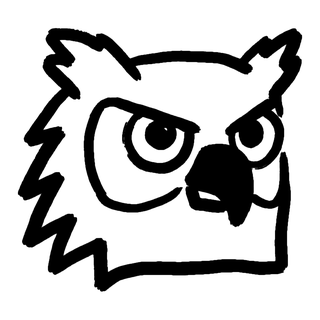
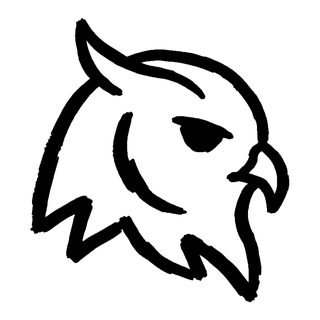
[DA] Shine des nouveautés : éclat tourné après le nom du joueur et éventail au-dessus de l'icône pour toute sortie arrivée depuis la dernière visite (synced_at) ; animaux : canard dessiné, nouvelles chouette et lynx

diff --git a/public/js/ui.js b/public/js/ui.js
@@ -17,7 +17,7 @@ import {
 
 import { getJokerStock, getJokerStatusForRound, getActiveJokersForRound, getPendingJokersForNextRound } from './jokers.js';
 import { filterByParticipant } from './standings-engine.js';
-import { picto, pictoOf } from './pictos.js?v=20261117b';
+import { picto, pictoOf } from './pictos.js?v=20261119a';
 import { motifClass } from './motifs.js';
 
 // ============================================
@@ -322,6 +322,44 @@ export function renderActiveJokersSection(container, data) {
 // RENDU DU CLASSEMENT
 // ============================================
 
+// ============================================
+// NOUVEAUTÉS DEPUIS LA DERNIÈRE VISITE (Shine)
+// ============================================
+// On retient le moment où le joueur a quitté le site sur cet appareil. Toute
+// sortie arrivée depuis (synced_at) reçoit le Shine, son auteur aussi. La date
+// de référence est figée pour l'onglet : recharger la page ne fait pas
+// disparaître les marques, la visite suivante si. Première visite : aucune marque.
+const NEW_SINCE = (() => {
+  try {
+    let since = sessionStorage.getItem('versant_new_since');
+    if (since === null) {
+      since = localStorage.getItem('versant_last_seen') || '';
+      sessionStorage.setItem('versant_new_since', since);
+    }
+    const mark = () => { try { localStorage.setItem('versant_last_seen', String(Date.now())); } catch {} };
+    mark();
+    addEventListener('pagehide', mark);
+    document.addEventListener('visibilitychange', () => { if (document.visibilityState === 'hidden') mark(); });
+    return since ? Number(since) : null;
+  } catch { return null; }
+})();
+
+function activityArrival(a) {
+  return Date.parse(a.synced_at) || (Date.parse(a.start_date) + (a.elapsed_time || 0) * 1000) || 0;
+}
+
+/** Vrai si la sortie est arrivée depuis la dernière visite. */
+export function isNewActivity(a) {
+  return NEW_SINCE !== null && activityArrival(a) > NEW_SINCE;
+}
+
+/** Shine après le nom d'un joueur qui a une sortie nouvelle sur le round ('' sinon). */
+export function newShine(athleteId, roundActivities) {
+  if (NEW_SINCE === null) return '';
+  const fresh = filterByParticipant(roundActivities || [], athleteId).some(isNewActivity);
+  return fresh ? '<span class="da-shine" role="img" aria-label="Nouvelle sortie" title="Nouvelle sortie depuis ta dernière visite"></span>' : '';
+}
+
 export function renderAthleteActivitiesPanel(athleteId, roundActivities, specialRule = null) {
   const isRainRule = specialRule === 'pluie_qui_mouille';
   const activities = filterByParticipant(roundActivities || [], athleteId)
@@ -353,7 +391,7 @@ export function renderAthleteActivitiesPanel(athleteId, roundActivities, special
 
     return `
     <div class="athlete-activity-row">
-      <span class="athlete-activity-sport" title="${a.sport_type || a.type || ''}">${getActivitySportIcon(a.sport_type || a.type)}</span>
+      <span class="athlete-activity-sport${isNewActivity(a) ? ' da-new-ico' : ''}" title="${a.sport_type || a.type || ''}${isNewActivity(a) ? ' · nouvelle' : ''}">${getActivitySportIcon(a.sport_type || a.type)}</span>
       <a class="athlete-activity-name" href="https://www.strava.com/activities/${a.id}" target="_blank" rel="noopener noreferrer">
         ${a.name || 'Sans nom'}${rainBadge}
       </a>
@@ -546,7 +584,7 @@ let html = specialBanner + specialRuleHtml + headerHtml;
               ${bonusIndicators}
             </div>
             <div class="athlete-details">
-              <span class="athlete-name athlete-name-clickable" onclick="toggleAthleteActivities('${entry.participant.id}')">${entry.participant.name} <span class="athlete-name-toggle-icon" id="athlete-activities-icon-${entry.participant.id}">▾</span></span>
+              <span class="athlete-name athlete-name-clickable" onclick="toggleAthleteActivities('${entry.participant.id}')">${entry.participant.name}${newShine(entry.participant.id, roundActivities)} <span class="athlete-name-toggle-icon" id="athlete-activities-icon-${entry.participant.id}">▾</span></span>
               ${isRescape ? '<span class="athlete-status rescape" title="Rescapé du round précédent">Rescapé</span>' : ''}
               ${entry.isInDangerZone ? '<span class="athlete-status danger">Zone danger</span>' : ''}
               ${entry.isProtected ? '<span class="athlete-status protected">🛡 Protégé</span>' : ''}
@@ -579,7 +617,7 @@ let html = specialBanner + specialRuleHtml + headerHtml;
               ${bonusIndicators}
             </div>
             <div class="athlete-details">
-              <span class="athlete-name athlete-name-clickable" onclick="toggleAthleteActivities('${entry.participant.id}')">${entry.participant.name} <span class="athlete-name-toggle-icon" id="athlete-activities-icon-${entry.participant.id}">▾</span></span>
+              <span class="athlete-name athlete-name-clickable" onclick="toggleAthleteActivities('${entry.participant.id}')">${entry.participant.name}${newShine(entry.participant.id, roundActivities)} <span class="athlete-name-toggle-icon" id="athlete-activities-icon-${entry.participant.id}">▾</span></span>
               ${isRescape ? '<span class="athlete-status rescape" title="Rescapé du round précédent - Juste au-dessus de la zone d\'élimination">Rescapé</span>' : ''}
               ${entry.isInDangerZone ? '<span class="athlete-status danger">Zone danger</span>' : ''}
               ${entry.isProtected ? '<span class="athlete-status protected">🛡 Protégé</span>' : ''}

diff --git a/public/css/da/components.css b/public/css/da/components.css
@@ -582,7 +582,7 @@ html.da-atelier.pictos-v1 :is(.picto--trap, .picto--medaille, .picto--hausse, .p
    autres pictos, leurs détails doivent rester lisibles à côté du nom */
 html.da-atelier .picto--animal-loup { --pi: url("../../assets/pictos/animaux/loup.png?v=20261112a"); }
 html.da-atelier .picto--animal-renard { --pi: url("../../assets/pictos/animaux/renard.png?v=20261112a"); }
-html.da-atelier .picto--animal-lynx { --pi: url("../../assets/pictos/animaux/lynx.png?v=20261112a"); }
+html.da-atelier .picto--animal-lynx { --pi: url("../../assets/pictos/animaux/lynx.png?v=20261119a"); }
 html.da-atelier .picto--animal-ours { --pi: url("../../assets/pictos/animaux/ours.png?v=20261112a"); }
 html.da-atelier .picto--animal-sanglier { --pi: url("../../assets/pictos/animaux/sanglier.png?v=20261112a"); }
 html.da-atelier .picto--animal-mammouth { --pi: url("../../assets/pictos/animaux/mammouth.png?v=20261112a"); }
@@ -591,7 +591,7 @@ html.da-atelier .picto--animal-loutre { --pi: url("../../assets/pictos/animaux/l
 html.da-atelier .picto--animal-raton { --pi: url("../../assets/pictos/animaux/raton.png?v=20261112a"); }
 html.da-atelier .picto--animal-ecureuil { --pi: url("../../assets/pictos/animaux/ecureuil.png?v=20261112a"); }
 html.da-atelier .picto--animal-lapin { --pi: url("../../assets/pictos/animaux/lapin.png?v=20261112a"); }
-html.da-atelier .picto--animal-chouette { --pi: url("../../assets/pictos/animaux/chouette.png?v=20261112a"); }
+html.da-atelier .picto--animal-chouette { --pi: url("../../assets/pictos/animaux/chouette.png?v=20261119a"); }
 html.da-atelier .picto--animal-bouquetin { --pi: url("../../assets/pictos/animaux/bouquetin.png?v=20261112a"); }
 html.da-atelier .picto--animal-chamois { --pi: url("../../assets/pictos/animaux/chamois.png?v=20261112a"); }
 html.da-atelier .picto--animal-aigle { --pi: url("../../assets/pictos/animaux/aigle.png?v=20261112a"); }
@@ -599,8 +599,18 @@ html.da-atelier .picto--animal-mouflon { --pi: url("../../assets/pictos/animaux/
 html.da-atelier .picto--animal-cerf { --pi: url("../../assets/pictos/animaux/cerf.png?v=20261112a"); }
 html.da-atelier .picto--animal-corbeau { --pi: url("../../assets/pictos/animaux/corbeau.png?v=20261112a"); }
 html.da-atelier .picto--animal-panda { --pi: url("../../assets/pictos/animaux/panda.png?v=20261112a"); }
+html.da-atelier .picto--animal-canard { --pi: url("../../assets/pictos/animaux/canard.png?v=20261119a"); }
 html.da-atelier .picto--animal-chenille { --pi: url("../../assets/pictos/animaux/chenille.png?v=20261112a"); }
 html.da-atelier [class*="picto--animal-"] { width: 1.75em; height: 1.75em; vertical-align: -0.5em; }
+
+/* Nouveautés depuis la dernière visite : le Shine-01 de MANIC, tourné de 90°
+   après le nom, en éventail au-dessus de l'icône de la sortie */
+.da-shine { display: none; }
+html.da-atelier .da-shine { display: inline-block; width: 0.6em; height: 1.25em; margin-left: 4px; margin-right: 2px; vertical-align: -0.2em; background: var(--accent-text);
+  -webkit-mask: url("../../assets/manic/shine-01-v.svg") center / 100% 100% no-repeat; mask: url("../../assets/manic/shine-01-v.svg") center / 100% 100% no-repeat; }
+html.da-atelier .da-new-ico { position: relative; overflow: visible; }
+html.da-atelier .da-new-ico::after { content: ""; position: absolute; left: -2px; right: -2px; top: -16px; height: 24px; background: var(--accent-text); pointer-events: none;
+  -webkit-mask: url("../../assets/manic/shine-01.svg") center / 100% 100% no-repeat; mask: url("../../assets/manic/shine-01.svg") center / 100% 100% no-repeat; }
 
 /* Médailles 1, 2, 3 : la rosette, un coup de marqueur or, gris ou brun dessus */
 html.da-atelier .da-medal { position: relative; display: inline-block; line-height: 1; vertical-align: middle; isolation: isolate; margin-right: 0.3em; --medal: var(--team-or); }

diff --git a/public/js/app.js b/public/js/app.js
@@ -37,8 +37,8 @@ import {
   renderJokersGuide, renderArsenal, showNotification,
   showContextMenu, hideContextMenu, showTargetSelectionModal,
   renderElevationGauge, renderElevationGaugeHistory,
-  renderAthleteActivitiesPanel, renderRoundNotes, deltaBadge
-} from './ui.js?v=20261118c';
+  renderAthleteActivitiesPanel, renderRoundNotes, deltaBadge, newShine
+} from './ui.js?v=20261119a';
 
 import { getCurrentDate, setSimulatedDate } from './demo.js';
 
@@ -86,7 +86,7 @@ import {
 } from './standings-engine.js';
 
 import { toggleSimulator } from './simulator.js';
-import { picto, medal as medalPicto, animalIcon } from './pictos.js?v=20261117b';
+import { picto, medal as medalPicto, animalIcon } from './pictos.js?v=20261119a';
 import { motifClass } from './motifs.js';
 import * as H from './da-hand.js?v=20261118a';
 import { roundSituationNote } from './da-notes.js?v=20261118e';
@@ -973,7 +973,7 @@ function renderTeamRanking(container, data) {
           <div class="team-member-row ${isLastTeam ? 'in-danger' : ''}">
             <div class="team-member-info">
               <div class="athlete-avatar-small ${motifClass(member.id)}" style="background:linear-gradient(135deg,${color},${color}88)"><span class="da-initials">${initials}</span></div>
-              <span class="team-member-name athlete-name-clickable" onclick="toggleAthleteActivities('${member.id}')">${name} <span class="athlete-name-toggle-icon" id="athlete-activities-icon-${member.id}">▾</span></span>
+              <span class="team-member-name athlete-name-clickable" onclick="toggleAthleteActivities('${member.id}')">${name}${newShine(member.id, roundActivities)} <span class="athlete-name-toggle-icon" id="athlete-activities-icon-${member.id}">▾</span></span>
             </div>
             <span class="team-member-elevation">${formatElevation(member.elevation || 0)}</span>
           </div>

diff --git a/public/js/pictos.js b/public/js/pictos.js
@@ -20,7 +20,7 @@ const DRAWN = new Set([
   // sports (dessins de la graphiste), et Roi de la Pédale
   ...['course', 'trail', 'rando', 'vtt', 'velo', 'marche', 'gravel', 'ski-rando', 'ski-fond', 'raquettes', 'escalade'].map(id => 'sport-' + id), 'succes-cyclist',
   // animaux des équipes, panda et chenille pour les anciennes saisons
-  ...['loup', 'renard', 'lynx', 'ours', 'sanglier', 'mammouth', 'marmotte', 'loutre', 'raton', 'ecureuil', 'lapin', 'chouette', 'bouquetin', 'chamois', 'aigle', 'mouflon', 'cerf', 'corbeau', 'panda', 'chenille'].map(id => 'animal-' + id),
+  ...['loup', 'renard', 'lynx', 'ours', 'sanglier', 'mammouth', 'marmotte', 'loutre', 'raton', 'ecureuil', 'lapin', 'chouette', 'bouquetin', 'chamois', 'aigle', 'mouflon', 'cerf', 'corbeau', 'panda', 'canard', 'chenille'].map(id => 'animal-' + id),
 ]);
 
 /** Picto d'un joker ou bonus par son identifiant (ex. 'bouclier'), avec son émoji de repli. */
@@ -30,7 +30,7 @@ export function picto(id, emoji = '', label = '') {
   return `<span class="picto picto--${id}"${a11y}><span class="picto__emoji" aria-hidden="true">${emoji}</span></span>`;
 }
 
-/** Dessin de l'animal d'une équipe, ou son émoji si l'animal n'a pas de dessin (canard des anciennes saisons). */
+/** Dessin de l'animal d'une équipe, ou son émoji si l'animal n'a pas de dessin. */
 export function animalIcon(animal) {
   if (!animal) return '';
   return DRAWN.has('animal-' + animal.id) ? picto('animal-' + animal.id, animal.emoji || '') : (animal.emoji || '');

diff --git a/public/index.html b/public/index.html
@@ -31,7 +31,7 @@
     <!-- DA Atelier (retirer la classe da-atelier de <html> pour revenir à l'ancienne DA) -->
     <link rel="stylesheet" href="css/da/tokens.css?v=20261109a" />
     <link rel="stylesheet" href="css/da/base.css?v=20261106a" />
-    <link rel="stylesheet" href="css/da/components.css?v=20261118d" />
+    <link rel="stylesheet" href="css/da/components.css?v=20261119a" />
     <link rel="stylesheet" href="css/da/home.css?v=20261118e" />
   </head>
   <body>
@@ -325,6 +325,6 @@
     <!-- App JS - Version simple avec query string -->
     <script src="shared/team-formation.js?v=20260505c"></script>
     <script src="shared/edition-rules.js?v=20261028d"></script>
-    <script type="module" src="js/app.js?v=20261118e"></script>
+    <script type="module" src="js/app.js?v=20261119a"></script>
   </body>
 </html>

diff --git a/public/stats.html b/public/stats.html
@@ -32,7 +32,7 @@
   <!-- DA Atelier (retirer la classe da-atelier de <html> pour revenir à l'ancienne DA) -->
   <link rel="stylesheet" href="css/da/tokens.css?v=20261109a">
   <link rel="stylesheet" href="css/da/base.css?v=20261106a">
-  <link rel="stylesheet" href="css/da/components.css?v=20261118d">
+  <link rel="stylesheet" href="css/da/components.css?v=20261119a">
   <link rel="stylesheet" href="css/da/pages.css?v=20261105a">
   <link rel="stylesheet" href="css/da/stats.css?v=20261115b">
 </head>
@@ -427,6 +427,6 @@
   <!-- Module principal -->
   <script src="shared/team-formation.js?v=20260417"></script>
   <script src="shared/edition-rules.js?v=20261028d"></script>
-  <script type="module" src="js/stats.js?v=20261116a"></script>
+  <script type="module" src="js/stats.js?v=20261119a"></script>
 </body>
 </html>

diff --git a/public/dashboard.html b/public/dashboard.html
@@ -926,7 +926,7 @@
   <!-- DA Atelier (retirer la classe da-atelier de <html> pour revenir à l'ancienne DA) -->
   <link rel="stylesheet" href="css/da/tokens.css?v=20261109a">
   <link rel="stylesheet" href="css/da/base.css?v=20261106a">
-  <link rel="stylesheet" href="css/da/components.css?v=20261118d">
+  <link rel="stylesheet" href="css/da/components.css?v=20261119a">
   <link rel="stylesheet" href="css/da/dashboard.css?v=20261106c">
 </head>
 <body>
@@ -1098,6 +1098,6 @@
 
   <script src="shared/team-formation.js?v=20260505c"></script>
   <script src="shared/edition-rules.js?v=20261028d"></script>
-  <script type="module" src="js/dashboard.js?v=20261118e"></script>
+  <script type="module" src="js/dashboard.js?v=20261119a"></script>
 </body>
 </html>

diff --git a/public/js/simulator.js b/public/js/simulator.js
@@ -17,8 +17,8 @@
 import { getRoundDates, getParticipantById, getSeasonType, getSeasonNumber } from './config.js';
 import { filterByPeriod, calculateRanking } from './standings-engine.js';
 import { applyJokerEffects, getActiveJokersForRound, getBonusesUsedInRound } from './jokers.js';
-import { formatElevation } from './ui.js?v=20261118c';
-import { picto, animalIcon } from './pictos.js?v=20261117b';
+import { formatElevation } from './ui.js?v=20261119a';
+import { picto, animalIcon } from './pictos.js?v=20261119a';
 import * as H from './da-hand.js?v=20261118a';
 
 // ============================================

diff --git a/public/demo.html b/public/demo.html
@@ -603,7 +603,7 @@
     <!-- DA Atelier (retirer la classe da-atelier de <html> pour revenir à l'ancienne DA) -->
     <link rel="stylesheet" href="css/da/tokens.css?v=20261109a" />
     <link rel="stylesheet" href="css/da/base.css?v=20261106a" />
-    <link rel="stylesheet" href="css/da/components.css?v=20261118d" />
+    <link rel="stylesheet" href="css/da/components.css?v=20261119a" />
     <link rel="stylesheet" href="css/da/home.css?v=20261118e" />
     <link rel="stylesheet" href="css/da/demo.css?v=20261110b" />
   </head>

diff --git a/public/js/dashboard.js b/public/js/dashboard.js
@@ -20,10 +20,10 @@ import {
   onDomReady,
   loadParticipants
 } from './config.js';
-import { picto } from './pictos.js?v=20261117b';
+import { picto } from './pictos.js?v=20261119a';
 import { calculateYearlyStandings } from './standings-engine.js';
 import { motifClass } from './motifs.js';
-import { formatDate, formatElevation } from './ui.js?v=20261118c';
+import { formatDate, formatElevation } from './ui.js?v=20261119a';
 
 const API_BASE = '/api';
 const LEAGUE_ID = CHALLENGE_CONFIG.leagueId;

diff --git a/public/js/stats.js b/public/js/stats.js
@@ -40,7 +40,7 @@ import {
 
 // DA « Atelier » : graphiques dessinés à la main (présentation seule)
 import { isDA, cssVar } from './da-sketch.js?v=20261116a';
-import { picto, medal as medalPicto } from './pictos.js?v=20261117b';
+import { picto, medal as medalPicto } from './pictos.js?v=20261119a';
 import {
   SPORT_STYLE, styleSocialDA, drawSportBand, drawRankingBars, drawCalendarDots, drawHatchBars,
   drawCompare, drawPoints, drawMoneyTime, drawRidgeline

diff --git a/public/inscription.html b/public/inscription.html
@@ -375,7 +375,7 @@
   <!-- DA Atelier (retirer la classe da-atelier de <html> pour revenir à l'ancienne DA) -->
   <link rel="stylesheet" href="css/da/tokens.css?v=20261109a">
   <link rel="stylesheet" href="css/da/base.css?v=20261106a">
-  <link rel="stylesheet" href="css/da/components.css?v=20261118d">
+  <link rel="stylesheet" href="css/da/components.css?v=20261119a">
   <link rel="stylesheet" href="css/da/pages.css?v=20261105a">
 </head>
 <body>
